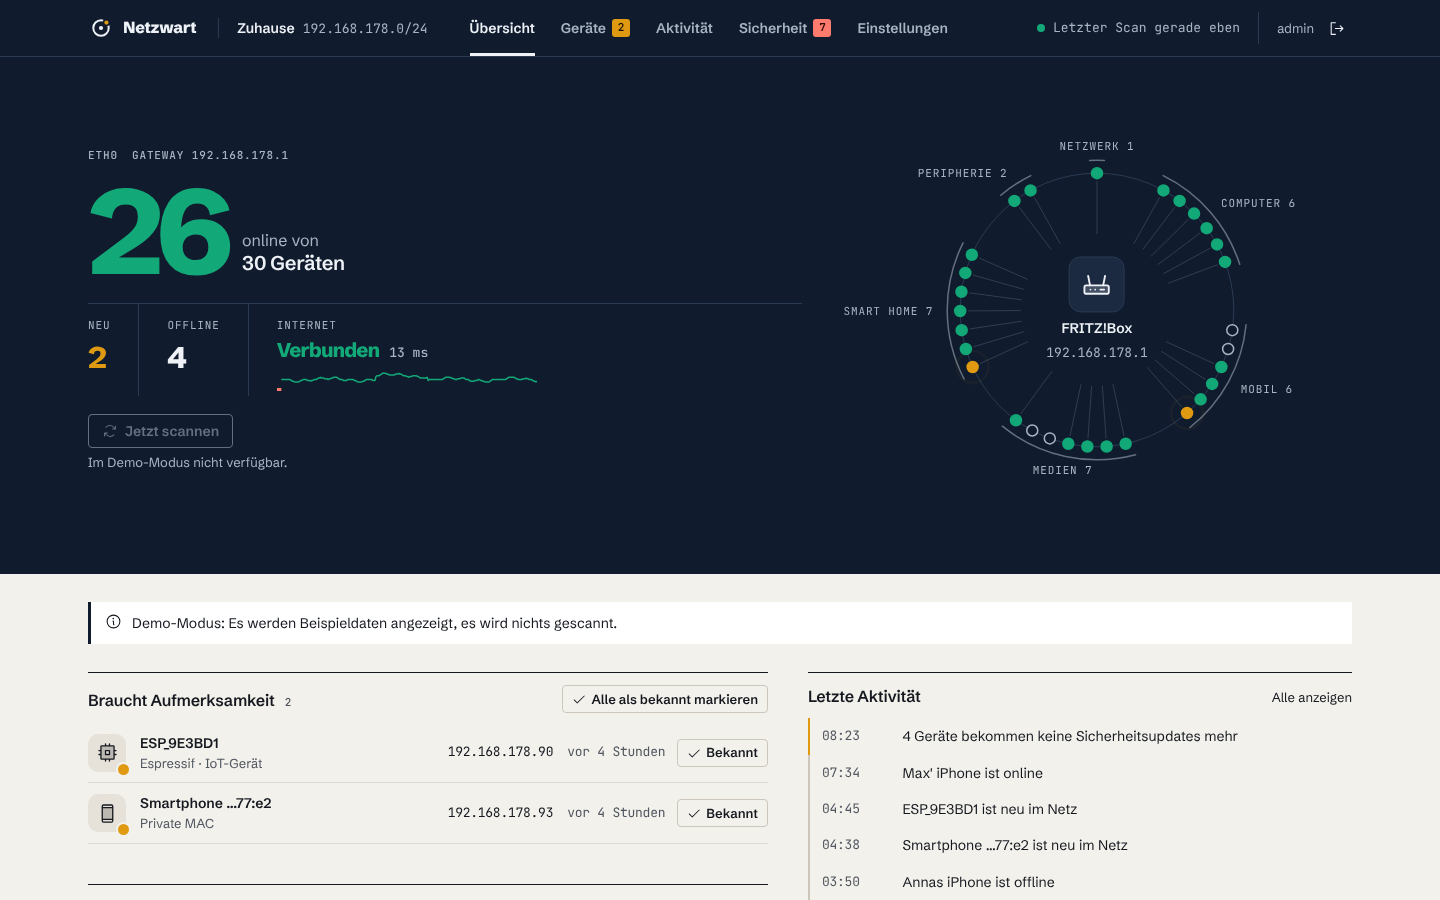
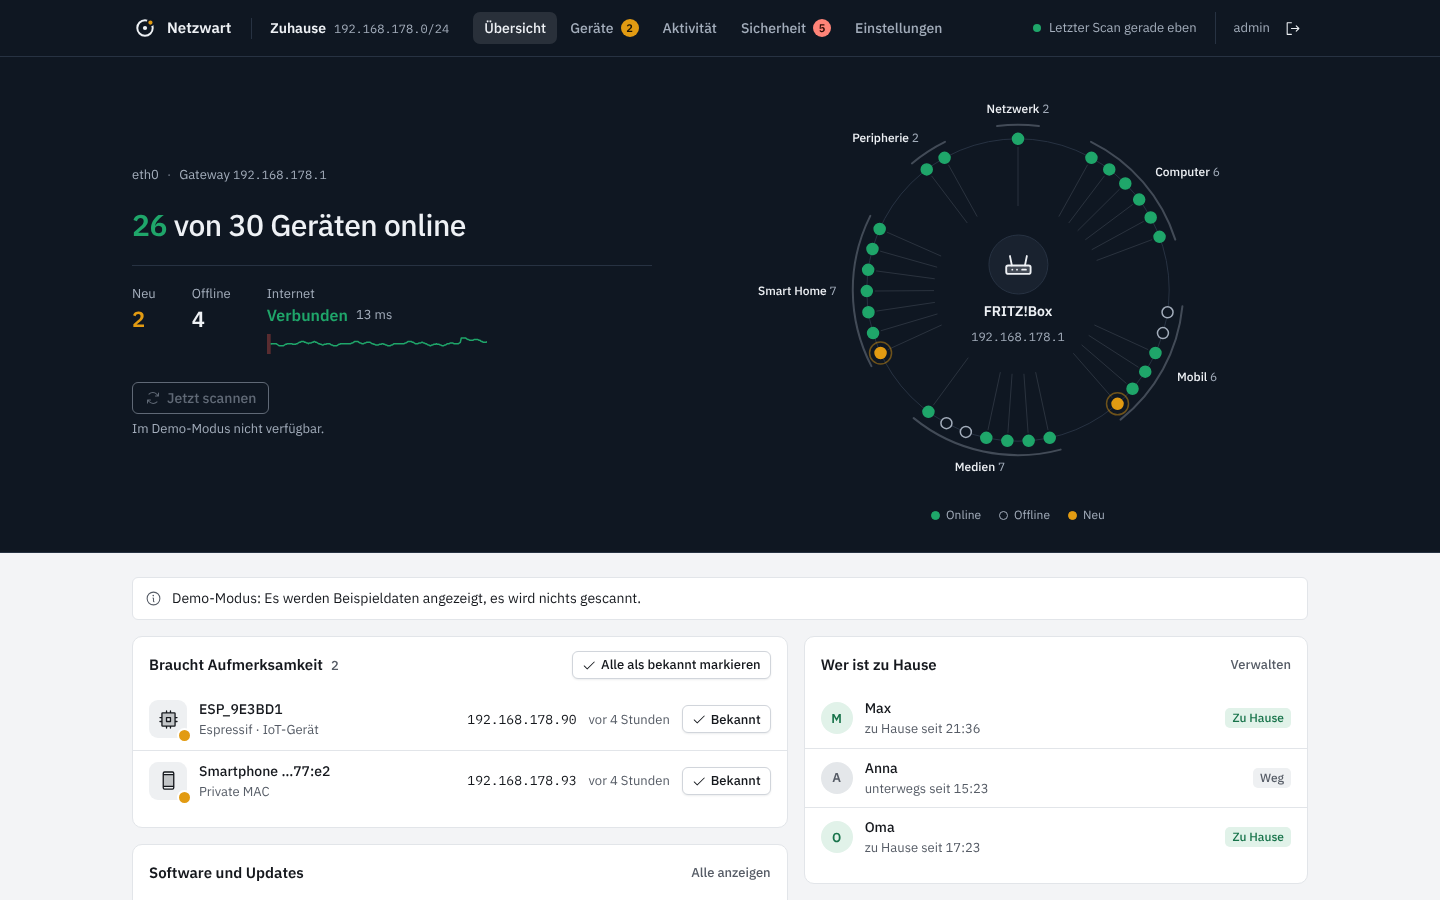
Release 0.2.1
Neues Erscheinungsbild „Klartext“, neue Screenshots im README
(dazu WLAN-Diagnose und Personen).

Claude-Session: https://claude.ai/code/session_0172P9jaejyNk1B9RgxsT3XH

diff --git a/README.md b/README.md
@@ -55,8 +55,8 @@ aber auf jedem Linux-Host mit Docker.
   Neu in 0.2: WLAN-Diagnose (welches Gerät hängt an welchem Repeater, in welchem Band, wie gut) und die
   Leitungsdaten (Sync-Raten, Neueinwahlen).
 - **Werkzeuge:** Portscan pro Gerät, Wake-on-LAN, Geräte zusammenführen, CSV/JSON-Export.
-- **Oberfläche:** hell und dunkel, Deutsch und Englisch, funktioniert auf dem Handy und lässt sich zum
-  Startbildschirm hinzufügen.
+- **Oberfläche:** ruhig und übersichtlich (neu gestaltet in 0.2.1), hell und dunkel, Deutsch und Englisch,
+  funktioniert auf dem Handy und lässt sich zum Startbildschirm hinzufügen.
 
 <table>
   <tr>
@@ -65,7 +65,11 @@ aber auf jedem Linux-Host mit Docker.
   </tr>
   <tr>
     <td><img src="docs/screenshots/overview-dark.png" alt="Übersicht im dunklen Design"></td>
-    <td align="center"><img src="docs/screenshots/mobile.png" width="260" alt="Ansicht auf dem Handy"></td>
+    <td align="center"><img src="docs/screenshots/mobile.png" width="260" alt="Ansicht auf dem Handy mit Netzring"></td>
+  </tr>
+  <tr>
+    <td><img src="docs/screenshots/wlan.png" alt="WLAN-Diagnose: Hinweise und Signal je Gerät"></td>
+    <td><img src="docs/screenshots/persons.png" alt="Personen: wer zu Hause ist"></td>
   </tr>
 </table>
 
